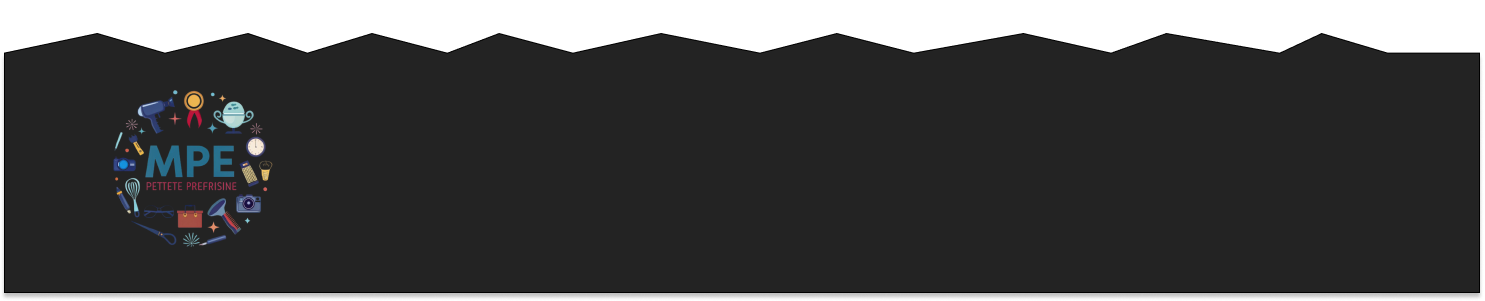
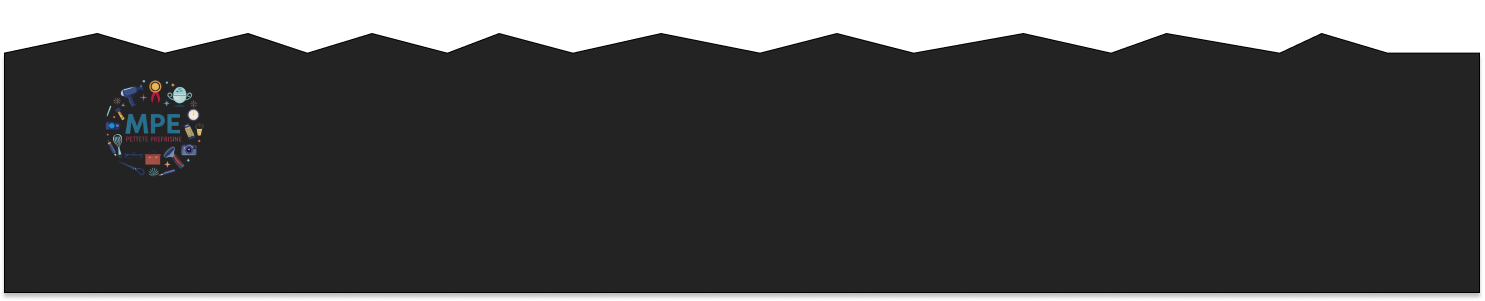
Footer v1

Changed region(s): [[0.062, 0.2691, 0.1859, 0.8372]]

diff --git a/src/components/footer/footer.jsx b/src/components/footer/footer.jsx
@@ -1,16 +1,32 @@
 import React from 'react';
-import './footer.css'; 
+import "./footer.css"
+import { BsInstagram, BsWhatsapp, BsFacebook, BsTwitterX } from 'react-icons/bs';
 
 const Footer = () => {
   return (
-    <footer className="footer flex justify-center">
-        <div className="flex flex-col">
-            <p>Contact</p>
-            <p>F.A.Q</p>
-            <p>L'équipe</p>
-            <p>Prix</p>
-            <p>© 2024 My Website. All rights reserved.</p>
+    <footer className="footer flex justify-between items-center p-4">
+      <div className="flex-1"></div>
+
+      <div className="flex flex-col items-center">
+        <a href="http://localhost:5173/contact" className="footer-link">Contact</a>
+        <p>F.A.Q</p>
+        <a href="http://localhost:5173/team" className="footer-link">L'équipe</a>
+        <p>Prix</p>
+        <p>© 2024 MaPetiteEntreprise. Tout droits réservés.</p>
+      </div>
+
+      <div className="flex flex-col items-end flex-1 mr-5">
+        <p className="mr-3">Suivez-nous sur les réseaux</p>
+        <div className="flex space-x-4 mr-4">
+          <BsInstagram size={24} />
+          <BsWhatsapp size={24} />
+          <BsFacebook size={24} />
+          <BsTwitterX size={24} />
         </div>
+        <p>Conditions générales de vente</p>
+        <p className="mr-2">Politique de confidentialité</p>
+        <p className="mr-9">Mentions légales</p>
+      </div>
     </footer>
   );
 };

diff --git a/src/components/footer/footer.css b/src/components/footer/footer.css
@@ -1,8 +1,8 @@
 .footer {
     background-image: url('../../assets/footermpe.png');
     background-size: cover; 
-    background-position: center; 
+    background-position: center -40px; 
     background-repeat: no-repeat;
-    padding: 150px 0px;
+    min-height: 215px; /* Augmente la hauteur minimale du footer */
     color: white; 
 }
